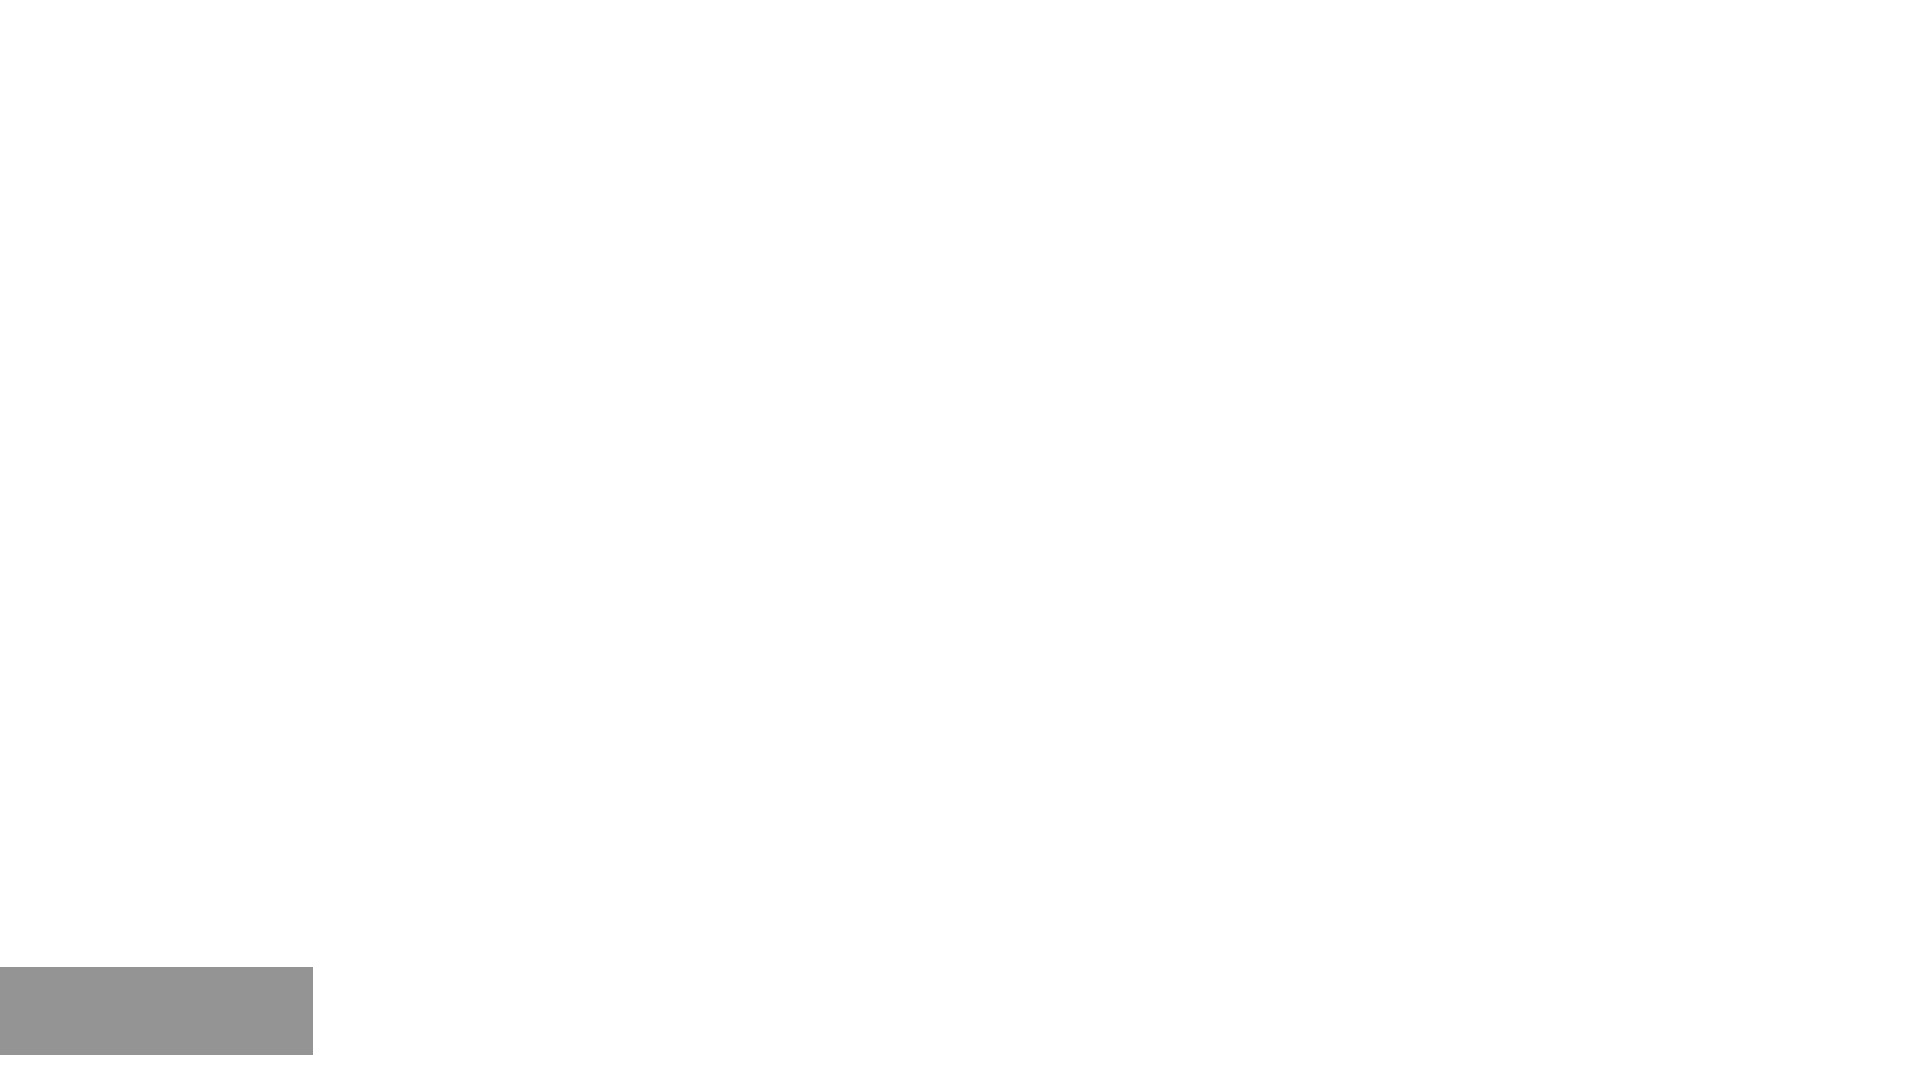
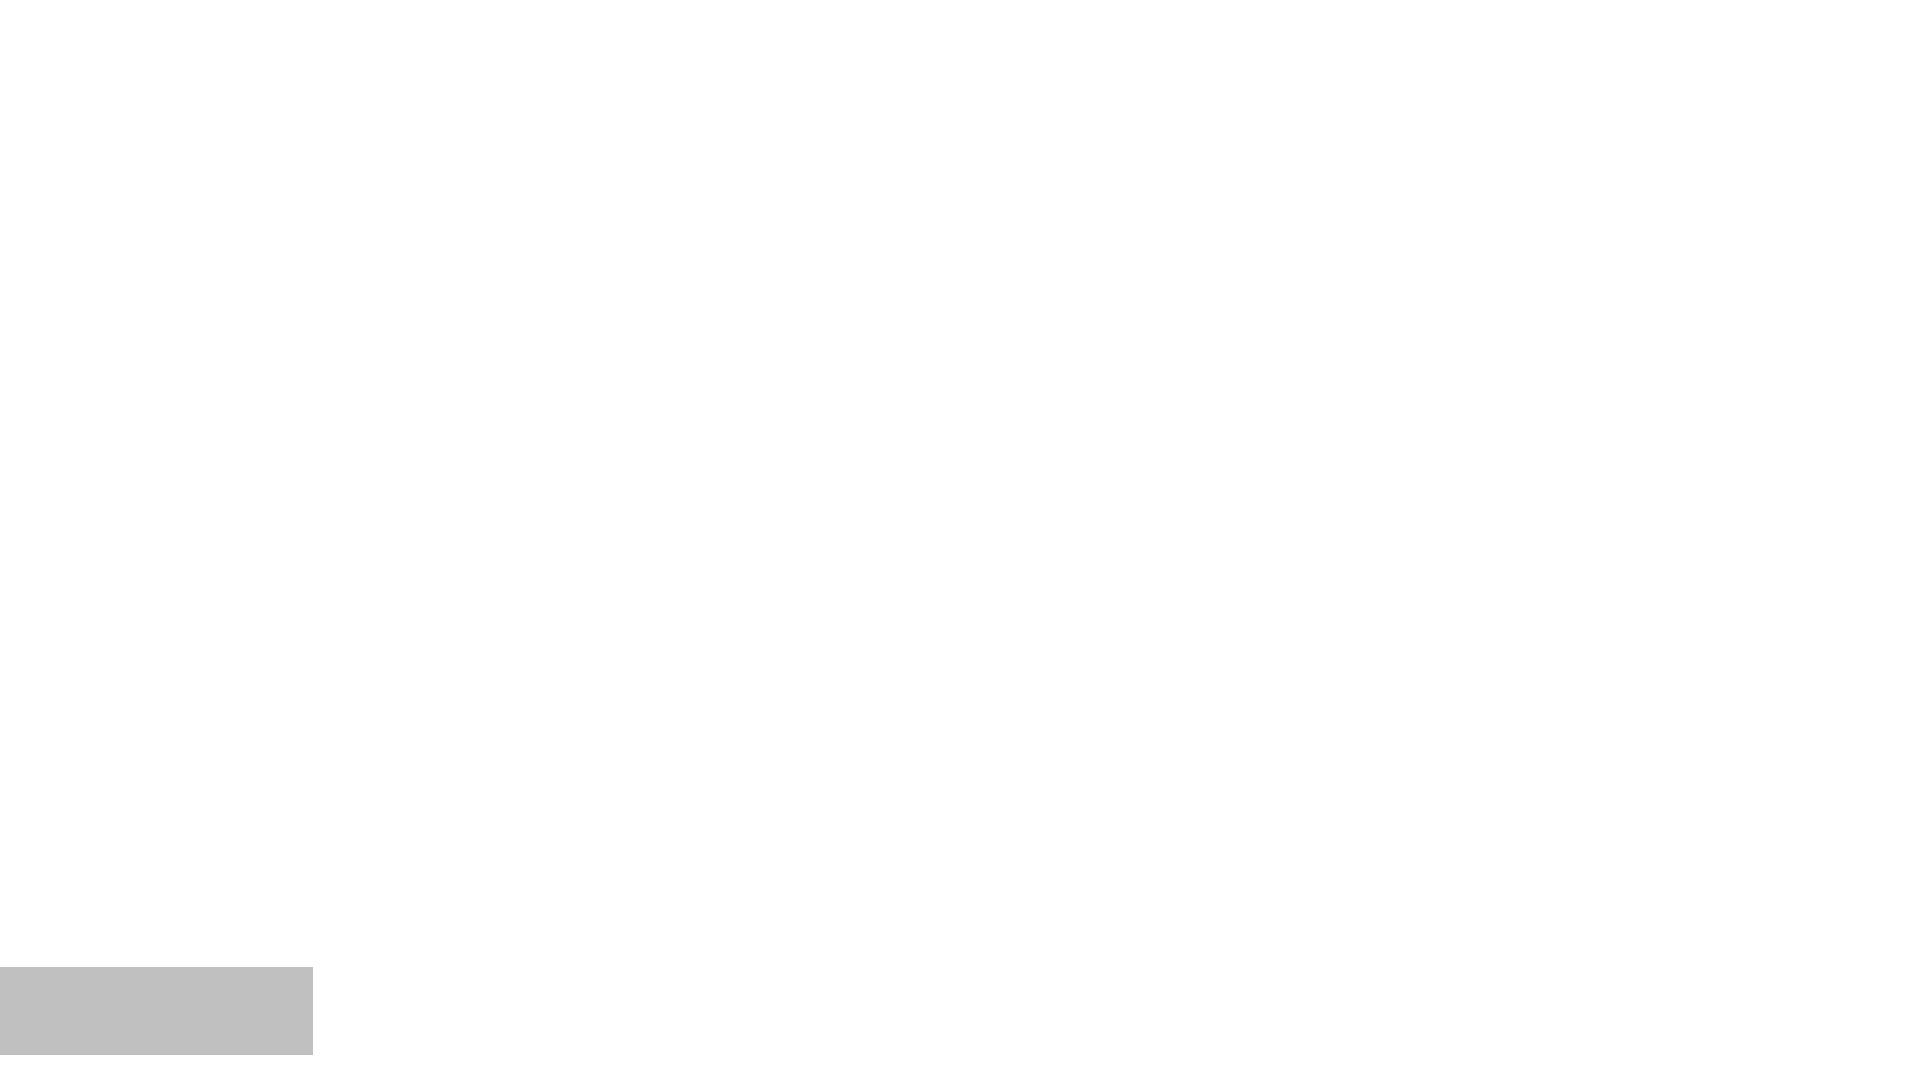
Changed colors, cleaned up scripts, changed polybar

Changed region(s): [[0.0, 0.8861, 0.1875, 0.9778]]

diff --git a/README.md b/README.md
@@ -53,7 +53,7 @@ dots submodule update --init --recursive $HOME/
 - i3lock-color (https://github.com/PandorasFox/i3lock-color)
 - materia-light-compact (gtk-theme)
 - numix-circle (icon-theme)
-- urxvt
+- urxvt256c
 - maim
 - feh
 - razercfg
@@ -67,3 +67,4 @@ dots submodule update --init --recursive $HOME/
 - gopass
 - streamlink
 - gsimplecal
+- nerdfonts (Roboto Mono)
